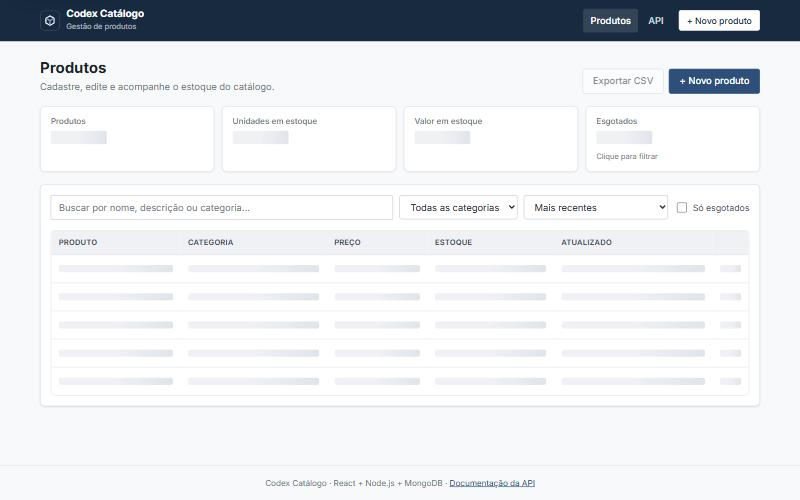
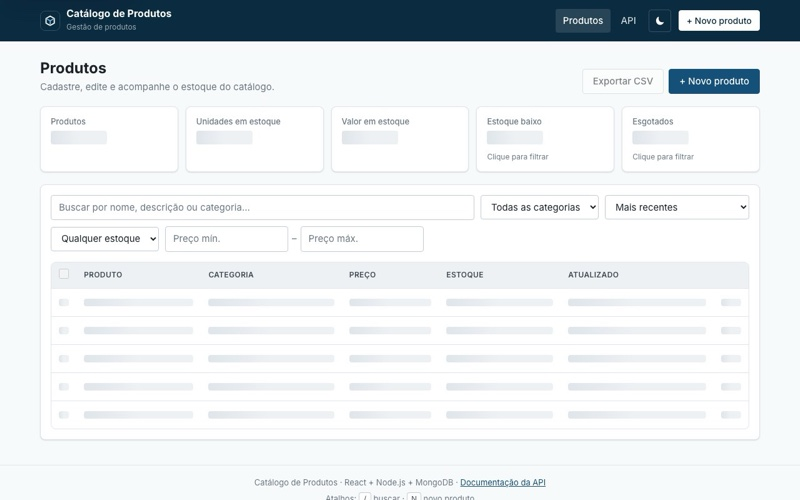
Remove referências a Codex e atualiza capturas de tela
- App passa a se chamar "Catálogo de Produtos" (aba, topo, rodapé,
  OpenAPI, Swagger, Postman e /health)
- Pacotes, banco Mongo e imagem Docker renomeados para catalogo-produtos
- README e comentários do backend sem menções ao padrão Codex
- Capturas de tela refeitas com a interface atual

diff --git a/backend/src/app/serialize/errorSerialize.js b/backend/src/app/serialize/errorSerialize.js
@@ -1,11 +1,10 @@
 /**
  * Corpo único de erro da API.
  *
- * O padrão Codex usa { description, name }. Aqui as chaves mudaram para
- * { statusCode, error, message, details } porque `name` é um campo do produto —
- * um erro com `name` na raiz confundiria quem consome a API justamente no
- * endpoint de produtos. O resto do contrato é o mesmo: os erros de domínio
- * carregam o próprio statusCode e o serializer só os traduz.
+ * As chaves são { statusCode, error, message, details }, sem `name` na raiz:
+ * `name` é um campo do produto, e um erro com `name` confundiria quem consome
+ * a API justamente no endpoint de produtos. Os erros de domínio carregam o
+ * próprio statusCode e o serializer só os traduz.
  */
 const serializeErrors = (erro) => {
   const statusCode = erro?.statusCode || 500;

diff --git a/frontend/src/components/Layout.tsx b/frontend/src/components/Layout.tsx
@@ -51,7 +51,7 @@ export default function Layout() {
           <Link to="/" className="topo__marca">
             <img src="/favicon.svg" alt="" width="32" height="32" />
             <span>
-              <strong>Codex Catálogo</strong>
+              <strong>Catálogo de Produtos</strong>
               <small>Gestão de produtos</small>
             </span>
           </Link>
@@ -80,7 +80,7 @@ export default function Layout() {
       </main>
 
       <footer className="rodape">
-        Codex Catálogo · React + Node.js + MongoDB ·{' '}
+        Catálogo de Produtos · React + Node.js + MongoDB ·{' '}
         <a href={`${API_URL}/docs`} target="_blank" rel="noreferrer">
           Documentação da API
         </a>

diff --git a/backend/src/app/config/config.js b/backend/src/app/config/config.js
@@ -18,7 +18,7 @@ if (nodeEnv === 'production' && !process.env.MONGO_URL) {
 module.exports = {
   port: Number(process.env.PORT) || 4008,
   nodeEnv,
-  mongoUrl: process.env.MONGO_URL || 'mongodb://127.0.0.1:27022/codex-catalogo',
+  mongoUrl: process.env.MONGO_URL || 'mongodb://127.0.0.1:27022/catalogo-produtos',
 
   // Origens liberadas no CORS, separadas por vírgula. Em dev o Vite faz proxy
   // e nem precisa de CORS; isto vale para quem apontar outro front para a API.
@@ -28,5 +28,5 @@ module.exports = {
   // docker compose para a aplicação já subir com dados).
   seedOnStart: process.env.SEED_ON_START === 'true',
 
-  produto: 'Codex Catálogo',
+  produto: 'Catálogo de Produtos',
 };

diff --git a/frontend/index.html b/frontend/index.html
@@ -8,10 +8,10 @@
     <meta name="theme-color" content="#0b2b40" media="(prefers-color-scheme: light)" />
     <meta name="theme-color" content="#0a1f2e" media="(prefers-color-scheme: dark)" />
     <link rel="icon" type="image/svg+xml" href="/favicon.svg" />
-    <title>Codex Catálogo</title>
+    <title>Catálogo de Produtos</title>
     <script>
       try {
-        var tema = localStorage.getItem('codex-catalogo:tema');
+        var tema = localStorage.getItem('catalogo-produtos:tema');
         if (tema === 'light' || tema === 'dark') document.documentElement.dataset.theme = tema;
       } catch (e) {}
     </script>

diff --git a/backend/src/app/controller/ProductController.js b/backend/src/app/controller/ProductController.js
@@ -6,7 +6,7 @@ const { etagOf, parseIfMatch } = require('../rules/product');
 /**
  * Controller fino: traduz HTTP ↔ service e não decide regra nenhuma.
  *
- * Cada método tem o próprio try/catch (padrão Codex). Os erros de domínio
+ * Cada método tem o próprio try/catch. Os erros de domínio
  * (NotFound, PreconditionFailed...) carregam o statusCode; qualquer outro vira
  * 500 com mensagem genérica, e o detalhe fica só no log do servidor.
  */

diff --git a/backend/src/routes/docs.router.js b/backend/src/routes/docs.router.js
@@ -16,7 +16,7 @@ module.exports = (server, routes, prefix = '/docs') => {
   const spec = YAML.parse(fs.readFileSync(SPEC_PATH, 'utf8'));
 
   routes.get('/openapi.json', (req, res) => res.json(spec));
-  routes.use('/', swaggerUi.serve, swaggerUi.setup(spec, { customSiteTitle: 'Codex Catálogo — API' }));
+  routes.use('/', swaggerUi.serve, swaggerUi.setup(spec, { customSiteTitle: 'Catálogo de Produtos — API' }));
 
   server.use(prefix, routes);
 };

diff --git a/backend/__tests__/helpers/testServer.js b/backend/__tests__/helpers/testServer.js
@@ -12,7 +12,7 @@ async function start() {
   mongod = await MongoMemoryServer.create();
 
   process.env.NODE_ENV = 'test';
-  process.env.MONGO_URL = mongod.getUri('codex-catalogo-test');
+  process.env.MONGO_URL = mongod.getUri('catalogo-produtos-test');
   // Aponta para uma pasta inexistente: os testes não dependem de o frontend
   // ter sido compilado nesta máquina.
   process.env.FRONTEND_DIR = '/nao-existe';

diff --git a/backend/scripts/db.js b/backend/scripts/db.js
@@ -19,7 +19,7 @@ const dbPath = path.join(__dirname, '..', '.localdb');
     instance: { port: PORT, dbPath, storageEngine: 'wiredTiger' },
   });
 
-  console.log(`[db] MongoDB local em ${mongod.getUri()}codex-catalogo`);
+  console.log(`[db] MongoDB local em ${mongod.getUri()}catalogo-produtos`);
   console.log('[db] Ctrl+C para parar.');
 
   const parar = async () => {

diff --git a/frontend/src/hooks/useTheme.ts b/frontend/src/hooks/useTheme.ts
@@ -2,7 +2,7 @@ import { useEffect, useState } from 'react';
 
 export type Theme = 'light' | 'dark';
 
-export const THEME_STORAGE_KEY = 'codex-catalogo:tema';
+export const THEME_STORAGE_KEY = 'catalogo-produtos:tema';
 const CONSULTA_ESCURO = '(prefers-color-scheme: dark)';
 const COR_DO_TOPO: Record<Theme, string> = { light: '#0b2b40', dark: '#0a1f2e' };
 

diff --git a/frontend/src/hooks/useDocumentTitle.ts b/frontend/src/hooks/useDocumentTitle.ts
@@ -1,6 +1,6 @@
 import { useEffect } from 'react';
 
-const NOME_DO_APP = 'Codex Catálogo';
+const NOME_DO_APP = 'Catálogo de Produtos';
 
 export function useDocumentTitle(titulo: string): void {
   useEffect(() => {

diff --git a/README.md b/README.md
@@ -1,8 +1,8 @@
-# Codex Catálogo — Gerenciamento de Catálogo de Produtos
+# Catálogo de Produtos — Gerenciamento de Catálogo
 
 Aplicação fullstack para o vendedor gerenciar o catálogo de produtos: **API REST em Node.js (Express 5) + MongoDB (Mongoose)** e **frontend em React 18 (Vite)**.
 
-Solução do desafio técnico [`occ-react-node`](https://gitlab.com/lighthouseit/testes-tecnicos/occ-react-node), seguindo o padrão de arquitetura dos projetos Codex.
+Solução do desafio técnico [`occ-react-node`](https://gitlab.com/lighthouseit/testes-tecnicos/occ-react-node).
 
 ![Listagem de produtos](docs/screenshots/listagem.jpg)
 
@@ -122,7 +122,7 @@ npm --prefix frontend run dev
 | :--- | :--- | :--- |
 | `PORT` | `4008` | Porta HTTP da API |
 | `NODE_ENV` | `development` | `development`, `production` ou `test` |
-| `MONGO_URL` | `mongodb://127.0.0.1:27022/codex-catalogo` | Conexão do MongoDB. **Obrigatória em produção** (a API não sobe sem ela) |
+| `MONGO_URL` | `mongodb://127.0.0.1:27022/catalogo-produtos` | Conexão do MongoDB. **Obrigatória em produção** (a API não sobe sem ela) |
 | `CORS_ORIGIN` | `*` | Origens liberadas, separadas por vírgula. Só importa com o frontend em outro domínio |
 | `SEED_ON_START` | `true` | Cria o catálogo de demonstração na subida **se a coleção estiver vazia** (nunca apaga nada) |
 
@@ -283,10 +283,10 @@ curl -i -X POST http://localhost:4008/products/batch/category -H "Content-Type: 
 
 | Camada | Escolha | Por quê |
 | :--- | :--- | :--- |
-| API | **Express 5** | Padrão dos projetos Codex; o Express 5 já propaga erro de handler assíncrono e tem roteamento mais estrito |
-| Banco | **MongoDB + Mongoose 8** | Opção permitida pelo desafio e padrão Codex; collation `pt` resolve ordenação e comparação sem diferenciar maiúsculas |
+| API | **Express 5** | O Express 5 já propaga erro de handler assíncrono e tem roteamento mais estrito |
+| Banco | **MongoDB + Mongoose 8** | Opção permitida pelo desafio; collation `pt` resolve ordenação e comparação sem diferenciar maiúsculas |
 | Validação | **Joi** | Esquema declarativo, todas as mensagens em um lugar, conversão/limpeza do corpo (`stripUnknown`) |
-| Frontend | **React 18 + TypeScript + Vite + React Router 6 + axios + Sass** | Padrão Codex; TypeScript estrito com os tipos do domínio num lugar só ([`types/`](frontend/src/types)) |
+| Frontend | **React 18 + TypeScript + Vite + React Router 6 + axios + Sass** | TypeScript estrito com os tipos do domínio num lugar só ([`types/`](frontend/src/types)) |
 | Dados no frontend | **TanStack Query 5** | Cache, cancelamento, nova tentativa e invalidação depois de cada escrita, sem estado global à mão |
 | Formulário | **react-hook-form + zod** | Validação declarativa com as mesmas mensagens do Joi; a saída do esquema já é o corpo da requisição |
 | Qualidade | **ESLint (typescript-eslint, react-hooks, jsx-a11y) + Prettier** | Lint com tipos e regras de acessibilidade; formatação conferida no CI |
@@ -305,7 +305,7 @@ HTTP ─▶ routes ─▶ validation ─▶ controller ─▶ service ─▶ rep
 
 - **routes** só ligam URL → middlewares → controller.
 - **validation** responde `400` antes de qualquer acesso ao banco (corpo, query e formato do ID).
-- **controller** é fino: traduz HTTP (status, `Location`, `ETag`, `X-Total-Count`) e tem `try/catch` em cada método (padrão Codex). Erros de domínio (`NotFound`, `PreconditionFailed`…) carregam o próprio `statusCode`.
+- **controller** é fino: traduz HTTP (status, `Location`, `ETag`, `X-Total-Count`) e tem `try/catch` em cada método. Erros de domínio (`NotFound`, `PreconditionFailed`…) carregam o próprio `statusCode`.
 - **service** concentra a regra: normalização do texto, reaproveitamento da grafia da categoria, decisão entre `404` e `412`.
 - **repository** isola o Mongoose (filtros, collation, paginação, agregação).
 - **rules/** são funções puras (limites, normalização, ordenação, parsing de `If-Match`) — testadas sem banco e lidas pela validação, pelo schema e pelo service, então um limite muda num lugar só.
@@ -327,7 +327,7 @@ Quando a API recusa algo que passou no cliente, o formulário mostra a mensagem 
 - **ID inválido é `400`, ID inexistente é `404`.** Um ID fora do formato nunca vai existir, e responder antes de ir ao banco evita expor um `CastError`.
 - **Concorrência otimista** com versão própria (o `__v` do Mongoose só incrementa quando um array muda). Checagem e escrita são **uma operação atômica** (`findOneAndUpdate` filtrando pela versão).
 - **Rotas exatamente como no enunciado** (`/products`); as rotas do site ficam em português (`/produtos/novo`) para o mesmo servidor entregar API e SPA sem colisão. Uma sub-rota desconhecida da API responde `404` em JSON, nunca o HTML do site.
-- **Corpo de erro** `{ statusCode, error, message, details }`. O padrão Codex usa `{ description, name }`, mas aqui `name` é campo do produto — repetir a chave na raiz do erro confundiria quem consome a API.
+- **Corpo de erro** `{ statusCode, error, message, details }`. Sem `name` na raiz: `name` é campo do produto, e repetir a chave no erro confundiria quem consome a API.
 
 ### Frontend
 
@@ -340,7 +340,7 @@ Quando a API recusa algo que passou no cliente, o formulário mostra a mensagem 
 - **Estado na URL**: busca, filtro, ordenação e página ficam na query string (`/?busca=fone&ordem=-price`) — recarregar, voltar no navegador ou compartilhar o link mostra a mesma lista. A lógica fica em [`useProductFilters`](frontend/src/hooks/useProductFilters.ts); exclusão e exportação também saíram da página para hooks próprios (`useProductDeletion`, `useCsvExport`).
 - **Carregamento sob demanda**: as telas de formulário (com zod e react-hook-form) ficam num pacote separado, baixado só ao abrir o formulário; a listagem não carrega esse código.
 - **Acessibilidade**: rótulos ligados aos campos, `aria-invalid` + `aria-describedby` nos erros, foco no primeiro campo inválido, diálogo com `<dialog>` nativo (o resto da página fica inerte) com foco no botão seguro e Tab preso, **foco no título da página e título da aba a cada troca de tela**, rolagem restaurada, toasts em região `aria-live`, link "pular para o conteúdo", estado de estoque com texto (não só cor) e `prefers-reduced-motion`. O `eslint-plugin-jsx-a11y` confere a marcação no CI.
-- **Visual**: paleta institucional Codex (mesmos tokens do Painel BI/RCA/Bolso), **tema escuro** automático pelo sistema operacional (só os tokens mudam), fonte Inter servida pelo próprio app (sem Google Fonts), números tabulares; no celular a tabela vira cartões só com CSS.
+- **Visual**: cores definidas como tokens nomeados pela função (`--fundo`, `--primaria`, `--texto`…), **tema escuro** que segue o sistema operacional e pode ser alternado no topo (só os tokens mudam), fonte Inter servida pelo próprio app (sem Google Fonts), números tabulares; no celular a tabela vira cartões só com CSS.
 
 ### Convenção de nomes no frontend
 
@@ -393,7 +393,7 @@ A fronteira é o `export`: quem importa um módulo lê uma API em inglês, como 
 │       ├── pages/                    # ProductList, ProductCreate, ProductEdit, NotFound
 │       ├── context/                  # ToastContext
 │       ├── utils/                    # limites do produto, formatação, CSV
-│       ├── styles/                   # main.scss (tokens Codex, tema claro e escuro)
+│       ├── styles/                   # main.scss (tokens de cor, tema claro e escuro)
 │       ├── test/                     # setup do Vitest e renderWithProviders
 │       ├── routes.tsx                # rotas (formulários sob demanda)
 │       └── __tests__/                # Vitest + Testing Library
@@ -453,7 +453,7 @@ npm run format:check  # Prettier
 
 ## 9. Limitações e próximos passos
 
-- **Autenticação/autorização** não fazia parte do escopo; o caminho natural seria JWT com papéis (o mesmo padrão `auth` dos outros projetos Codex) protegendo as rotas de escrita.
+- **Autenticação/autorização** não fazia parte do escopo; o caminho natural seria JWT com papéis protegendo as rotas de escrita.
 - **Exclusão lógica sem expurgo**: produtos excluídos ficam no banco indefinidamente. Em produção caberia uma rotina que apague de vez os excluídos há mais de N dias (ou um índice TTL em `deletedAt`) e, se fizer sentido, uma tela de lixeira.
 - **Busca por regex** atende bem um catálogo de milhares de itens; para volumes maiores, índice de texto ou Atlas Search.
 - **Imagens do produto** e **SKU** ficariam como próximos campos do modelo.
